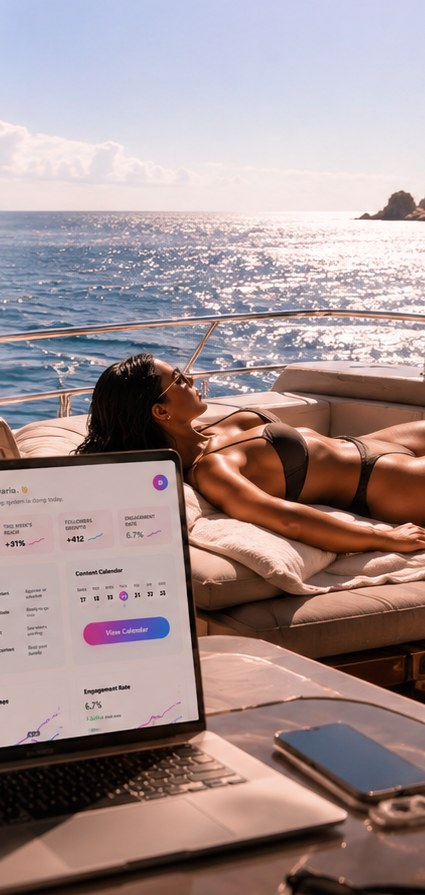
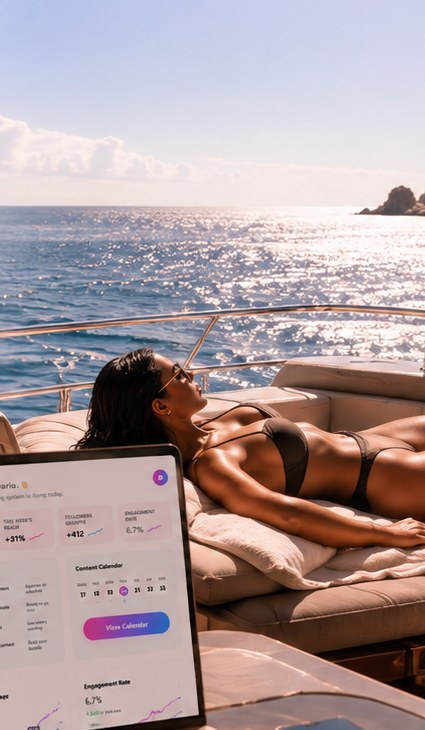
Rework hero into a cinematic lifestyle campaign, less dashboard/SaaS
Composition:
- Re-crop images/hero-freedom.jpg from the original source to show
  much more sky/ocean/space and de-emphasize the laptop (tucked into
  a lower corner instead of centered), keeping the woman as the clear
  focal point.
- Photo panel is now a wider (66%), unboxed full-bleed layer with no
  rounded-rectangle card framing or heavy drop shadow, bleeding to the
  section's top/right/bottom edges with a soft left mask so it reads
  as bleeding behind the headline column rather than sitting in a box.
- Increased hero height (clamp 680-900px via 88vh) for a more
  cinematic scale.

Business proof, dialed back:
- Removed the dark 'YOUR BUSINESS IS MOVING...' overlay box entirely.
- Cut the floating cards down in size (~30-40% smaller), spread them
  into natural corners instead of a stacked column, and hid the third
  (Automations) card on mobile, keeping just Content Scheduled and
  Engagement.
- Softened the ambient pink/blue/purple background glow (lower
  opacity, larger blur, added a third subtle purple pool) so it reads
  as ambient light rather than gradient blobs.

Headline: more breathing room (larger margins, calmer letter-spacing
and line-height) so it doesn't fight the photo.

Scope: only the hero section and hero-specific CSS/JS changed — nav
and everything from 'WHERE ARE YOU IN YOUR JOURNEY?' down are
untouched (verified via diff). Re-verified no horizontal overflow or
console errors across a 360-1920px width sweep, and reduced-motion
behavior.

diff --git a/css/style.css b/css/style.css
@@ -278,65 +278,65 @@ button { font: inherit; cursor: pointer; }
 .hero {
   position: relative;
   overflow: hidden;
-  min-height: 760px;
+  min-height: clamp(680px, 88vh, 900px);
   background:
-    radial-gradient(circle at 77% 18%, rgba(255, 46, 147, .13), transparent 28%),
-    radial-gradient(circle at 86% 62%, rgba(61, 139, 255, .12), transparent 30%),
-    linear-gradient(180deg, #fff8fb 0%, #ffffff 72%);
+    radial-gradient(circle at 80% 15%, rgba(255, 46, 147, .07), transparent 32%),
+    radial-gradient(circle at 88% 60%, rgba(61, 139, 255, .06), transparent 34%),
+    radial-gradient(circle at 20% 85%, rgba(139, 92, 246, .05), transparent 30%),
+    linear-gradient(180deg, #fffbfd 0%, #ffffff 70%);
   isolation: isolate;
 }
 
 .hero__ambient {
   position: absolute;
-  width: 520px;
-  height: 520px;
+  width: 560px;
+  height: 560px;
   border-radius: 50%;
-  filter: blur(90px);
-  opacity: .22;
+  filter: blur(120px);
+  opacity: .13;
   pointer-events: none;
   z-index: -1;
-  animation: heroAmbient 10s ease-in-out infinite alternate;
+  animation: heroAmbient 14s ease-in-out infinite alternate;
 }
-.hero__ambient--pink { background: var(--pink); top: -260px; right: 16%; }
-.hero__ambient--blue { background: var(--blue); right: -260px; bottom: -250px; animation-delay: -4s; }
+.hero__ambient--pink { background: var(--pink); top: -280px; right: 18%; }
+.hero__ambient--blue { background: var(--blue); right: -260px; bottom: -260px; animation-delay: -6s; }
 
 .hero__inner {
   position: relative;
-  display: grid;
-  grid-template-columns: minmax(360px, .9fr) minmax(560px, 1.25fr);
+  z-index: 1;
+  display: flex;
   align-items: center;
-  gap: 46px;
-  min-height: 760px;
-  padding: 56px 32px 66px;
+  min-height: inherit;
+  padding: 64px 0;
 }
-.hero__copy { position: relative; z-index: 5; max-width: 560px; }
+.hero__copy { position: relative; z-index: 5; max-width: 520px; }
 
 .hero__headline--freedom {
   display: flex;
   flex-direction: column;
   align-items: flex-start;
   font-family: Georgia, 'Times New Roman', serif;
-  font-size: clamp(64px, 7vw, 112px);
+  font-size: clamp(56px, 6.4vw, 98px);
   font-weight: 400;
-  line-height: .78;
-  letter-spacing: -5px;
-  margin: 26px 0 30px;
+  line-height: .86;
+  letter-spacing: -3px;
+  margin: 30px 0 36px;
   color: var(--black);
 }
 
 .hero-line {
   display: block;
   opacity: 0;
-  transform: translateY(44px);
-  animation: heroLineIn .85s cubic-bezier(.16, 1, .3, 1) forwards;
+  transform: translateY(36px);
+  animation: heroLineIn .9s cubic-bezier(.16, 1, .3, 1) forwards;
 }
 .hero-line--1 { animation-delay: .12s; }
-.hero-line--2 { font-weight: 700; animation-delay: .24s; line-height: .9; }
-.hero-line--3 { animation-delay: .36s; }
+.hero-line--2 { font-weight: 700; animation-delay: .26s; line-height: .95; }
+.hero-line--3 { animation-delay: .4s; }
 
-.hero__desc { max-width: 470px; font-size: 17px; line-height: 1.75; color: var(--gray-text); margin-bottom: 30px; }
+.hero__desc { max-width: 440px; font-size: 17px; line-height: 1.8; color: var(--gray-text); margin-bottom: 34px; }
 .hero__desc strong { color: var(--ink); font-weight: 800; }
-.hero__ctas { display: flex; gap: 14px; flex-wrap: wrap; margin-bottom: 30px; }
+.hero__ctas { display: flex; gap: 14px; flex-wrap: wrap; margin-bottom: 32px; }
 
 .hero-primary-cta { position: relative; overflow: hidden; }
 .hero-primary-cta::after {
@@ -362,59 +362,64 @@ button { font: inherit; cursor: pointer; }
 }
 .platform-icon svg { width: 16px; height: 16px; }
 
-/* ---- Hero visual photo ---- */
-.hero__visual--freedom { position: relative; min-height: 610px; z-index: 2; perspective: 1200px; }
+/* ---- Hero visual photo — cinematic full-bleed, no dashboard-card framing ---- */
+.hero__visual--freedom {
+  position: absolute;
+  top: 0; right: 0; bottom: 0;
+  width: 66%;
+  z-index: 0;
+  perspective: 1200px;
+}
 
 .hero-photo-frame {
   position: absolute;
-  inset: 16px 0 18px 20px;
-  border-radius: 36px;
+  inset: 0;
   overflow: hidden;
-  box-shadow: 0 34px 90px rgba(20,19,31,.18), 0 8px 30px rgba(139,92,246,.12);
-  background: #eee;
 }
 
 .hero__photo--freedom {
   width: 100%;
   height: 100%;
   object-fit: cover;
-  object-position: center center;
-  transform: scale(1.035);
-  transition: transform .45s ease-out;
+  object-position: center 32%;
+  transform: scale(1.02);
+  transition: transform .6s ease-out;
   will-change: transform;
+  -webkit-mask-image: linear-gradient(to right, transparent 0%, #000 20%);
+  mask-image: linear-gradient(to right, transparent 0%, #000 20%);
 }
 
 .hero-photo-shade {
   position: absolute;
   inset: 0;
-  background: linear-gradient(90deg, rgba(255,255,255,.22) 0%, transparent 24%), linear-gradient(180deg, transparent 54%, rgba(10,10,18,.12) 100%);
+  background: linear-gradient(180deg, transparent 62%, rgba(10,10,18,.14) 100%);
   pointer-events: none;
 }
 
 .freedom-status {
   position: absolute;
   display: grid;
-  grid-template-columns: 12px 1fr auto;
+  grid-template-columns: 8px 1fr auto;
   align-items: center;
-  gap: 11px;
-  min-width: 208px;
-  padding: 15px 16px;
-  border-radius: 18px;
-  background: rgba(255,255,255,.90);
-  border: 1px solid rgba(255,255,255,.72);
-  box-shadow: 0 14px 40px rgba(20,19,31,.16);
-  backdrop-filter: blur(16px);
-  -webkit-backdrop-filter: blur(16px);
+  gap: 8px;
+  max-width: 158px;
+  padding: 10px 12px;
+  border-radius: 13px;
+  background: rgba(255,255,255,.85);
+  border: 1px solid rgba(255,255,255,.7);
+  box-shadow: 0 10px 26px rgba(20,19,31,.13);
+  backdrop-filter: blur(14px);
+  -webkit-backdrop-filter: blur(14px);
   opacity: 0;
-  transform: translateY(20px) scale(.96);
-  animation: heroCardIn .72s cubic-bezier(.16,1,.3,1) forwards, heroCardFloat 5.5s ease-in-out infinite;
+  transform: translateY(16px) scale(.96);
+  animation: heroCardIn .72s cubic-bezier(.16,1,.3,1) forwards, heroCardFloat 6.5s ease-in-out infinite;
 }
 
 .freedom-status strong, .freedom-status small { display: block; }
-.freedom-status strong { font-size: 13px; color: var(--ink); margin-bottom: 3px; }
-.freedom-status small { font-size: 11px; color: var(--gray-text); line-height: 1.35; }
+.freedom-status strong { font-size: 11px; color: var(--ink); margin-bottom: 2px; }
+.freedom-status small { font-size: 9.5px; color: var(--gray-text); line-height: 1.3; }
 
-.freedom-status__dot { width: 9px; height: 9px; border-radius: 50%; box-shadow: 0 0 0 5px rgba(139,92,246,.08); }
+.freedom-status__dot { width: 7px; height: 7px; border-radius: 50%; box-shadow: 0 0 0 4px rgba(139,92,246,.08); }
 .freedom-status__dot--pink { background: var(--pink); }
 .freedom-status__dot--blue { background: var(--blue); }
 .freedom-status__dot--purple { background: var(--purple); }
@@ -422,50 +427,19 @@ button { font: inherit; cursor: pointer; }
 .freedom-status__check {
   display: grid;
   place-items: center;
-  width: 25px;
-  height: 25px;
+  width: 18px;
+  height: 18px;
   border-radius: 50%;
   color: #fff;
-  font-size: 13px;
+  font-size: 10px;
   font-weight: 900;
   background: var(--gradient-main);
 }
-.freedom-status__trend { font-size: 24px; line-height: 1; font-weight: 900; color: var(--green); }
+.freedom-status__trend { font-size: 17px; line-height: 1; font-weight: 900; color: var(--green); }
 
-.freedom-status--scheduled { top: 54px; right: -18px; animation-delay: .66s, 1.4s; }
-.freedom-status--growth { top: 212px; right: -20px; animation-delay: .82s, 1.9s; }
-.freedom-status--automation { right: 18px; bottom: 78px; animation-delay: .98s, 2.2s; }
-
-.freedom-proof {
-  position: absolute;
-  left: 52px;
-  bottom: 42px;
-  display: flex;
-  flex-direction: column;
-  gap: 3px;
-  max-width: 290px;
-  padding: 14px 17px;
-  border-radius: 16px;
-  color: #fff;
-  background: rgba(10,10,18,.58);
-  border: 1px solid rgba(255,255,255,.20);
-  backdrop-filter: blur(14px);
-  -webkit-backdrop-filter: blur(14px);
-  box-shadow: 0 12px 32px rgba(0,0,0,.18);
-}
-.freedom-proof span:not(.freedom-proof__pulse) { font-size: 10px; letter-spacing: 1.5px; font-weight: 800; }
-.freedom-proof strong { font-size: 13px; line-height: 1.35; }
-.freedom-proof__pulse {
-  position: absolute;
-  width: 8px;
-  height: 8px;
-  border-radius: 50%;
-  left: -3px;
-  top: -3px;
-  background: var(--green);
-  box-shadow: 0 0 0 0 rgba(34,197,94,.42);
-  animation: freedomPulse 2.1s infinite;
-}
+.freedom-status--scheduled { top: 12%; right: 6%; animation-delay: .66s, 1.4s; }
+.freedom-status--growth { top: 44%; left: 3%; animation-delay: .82s, 1.9s; }
+.freedom-status--automation { right: 7%; bottom: 14%; animation-delay: .98s, 2.2s; }
 
 .hero-animate { opacity: 0; transform: translateY(18px); animation: heroSoftIn .65s cubic-bezier(.16,1,.3,1) forwards; }
 .hero-animate--1 { animation-delay: .05s; }
@@ -476,13 +450,8 @@ button { font: inherit; cursor: pointer; }
 @keyframes heroLineIn { to { opacity: 1; transform: translateY(0); } }
 @keyframes heroSoftIn { to { opacity: 1; transform: translateY(0); } }
 @keyframes heroCardIn { to { opacity: 1; transform: translateY(0) scale(1); } }
-@keyframes heroCardFloat { 0%,100% { margin-top: 0; } 50% { margin-top: -7px; } }
-@keyframes heroAmbient { from { transform: translate3d(0,0,0) scale(1); } to { transform: translate3d(24px,16px,0) scale(1.08); } }
-@keyframes freedomPulse {
-  0% { box-shadow: 0 0 0 0 rgba(34,197,94,.42); }
-  70% { box-shadow: 0 0 0 11px rgba(34,197,94,0); }
-  100% { box-shadow: 0 0 0 0 rgba(34,197,94,0); }
-}
+@keyframes heroCardFloat { 0%,100% { margin-top: 0; } 50% { margin-top: -6px; } }
+@keyframes heroAmbient { from { transform: translate3d(0,0,0) scale(1); } to { transform: translate3d(20px,14px,0) scale(1.06); } }
 
 .btn--ghost-demo { padding: 10px 22px 10px 14px; gap: 12px; }
 .play-icon {
@@ -498,7 +467,7 @@ button { font: inherit; cursor: pointer; }
 .btn__text small { font-weight: 600; color: var(--gray-text); font-size: 11px; }
 
 @media (prefers-reduced-motion: reduce) {
-  .hero-line, .hero-animate, .freedom-status, .hero__ambient, .freedom-proof__pulse {
+  .hero-line, .hero-animate, .freedom-status, .hero__ambient {
     animation: none !important;
     opacity: 1 !important;
     transform: none !important;
@@ -968,38 +937,36 @@ button { font: inherit; cursor: pointer; }
 }
 
 /* ---- Freedom hero responsive ----
-   Stacks above the nav's 900px breakpoint (1120px) because the
-   two-column grid's minmax floors (360px + 560px + 46px gap) need
-   ~1030px of content width before the floating cards start clipping
-   against .hero's overflow:hidden. */
+   Stacks above the nav's 900px breakpoint (1120px) so the absolutely
+   positioned photo panel and its floating cards never get cramped
+   against the copy column before switching to the stacked layout. */
 @media (max-width: 1120px) {
   .hero { min-height: auto; }
-  .hero__inner { display: flex; flex-direction: column; align-items: stretch; padding: 48px 24px 52px; gap: 34px; }
+  .hero__inner { display: flex; flex-direction: column; align-items: stretch; padding: 48px 24px 0; gap: 0; }
   .hero__copy { max-width: 680px; }
-  .hero__headline--freedom { font-size: clamp(62px, 15vw, 96px); letter-spacing: -4px; margin-bottom: 24px; }
-  .hero__visual--freedom { min-height: 540px; }
-  .hero-photo-frame { inset: 0; border-radius: 26px; }
-  .freedom-status--scheduled { top: 28px; right: 18px; }
-  .freedom-status--growth { top: 144px; right: 8px; }
-  .freedom-status--automation { right: 18px; bottom: 34px; }
-  .freedom-proof { left: 20px; bottom: 26px; }
+  .hero__headline--freedom { font-size: clamp(58px, 14vw, 92px); letter-spacing: -3px; }
+  .hero__visual--freedom {
+    position: relative;
+    top: auto; right: auto; bottom: auto;
+    width: auto;
+    margin: 36px -24px 0;
+    height: 60vh;
+    min-height: 440px;
+    max-height: 620px;
+  }
+  .hero__photo--freedom { -webkit-mask-image: none; mask-image: none; object-position: center 24%; }
 }
 
 @media (max-width: 620px) {
-  .hero__inner { padding: 38px 18px 42px; }
-  .hero__headline--freedom { font-size: clamp(54px, 17vw, 78px); letter-spacing: -3px; }
+  .hero__inner { padding: 38px 18px 0; }
+  .hero__headline--freedom { font-size: clamp(50px, 16vw, 74px); letter-spacing: -2px; }
   .hero__desc { font-size: 15px; }
   .hero__ctas { flex-direction: column; align-items: stretch; }
   .hero__ctas .btn { width: 100%; }
-  .hero__visual--freedom { min-height: 430px; }
+  .hero__visual--freedom { margin: 30px -18px 0; height: 52vh; min-height: 380px; }
   .hero__photo--freedom { transform: none !important; }
-  .freedom-status { width: 172px; min-width: 0; padding: 11px 12px; gap: 8px; border-radius: 14px; }
-  .freedom-status strong { font-size: 11px; }
-  .freedom-status small { font-size: 9.5px; }
-  .freedom-status--scheduled { top: 18px; right: 10px; }
-  .freedom-status--growth { top: 104px; right: 6px; }
-  .freedom-status--automation { right: 10px; bottom: 18px; }
-  .freedom-proof { left: 12px; bottom: 14px; max-width: 185px; padding: 10px 12px; }
-  .freedom-proof span:not(.freedom-proof__pulse) { font-size: 8px; }
-  .freedom-proof strong { font-size: 10px; }
+  .freedom-status { max-width: 132px; padding: 8px 10px; gap: 6px; border-radius: 11px; }
+  .freedom-status strong { font-size: 9.5px; }
+  .freedom-status small { font-size: 8.5px; }
+  .freedom-status--tertiary { display: none; }
 }

diff --git a/index.html b/index.html
@@ -126,16 +126,10 @@
         <span class="freedom-status__trend" aria-hidden="true">&#8599;</span>
       </div>
 
-      <div class="freedom-status freedom-status--automation hero-float-card" data-depth="9">
+      <div class="freedom-status freedom-status--automation hero-float-card freedom-status--tertiary" data-depth="9">
         <span class="freedom-status__dot freedom-status__dot--purple" aria-hidden="true"></span>
         <span><strong>Automations Running</strong><small>No action needed</small></span>
         <span class="freedom-status__check" aria-hidden="true">&#10003;</span>
-      </div>
-
-      <div class="freedom-proof hero-animate hero-animate--7">
-        <span class="freedom-proof__pulse" aria-hidden="true"></span>
-        <span>YOUR BUSINESS IS MOVING.</span>
-        <strong>YOU DON'T HAVE TO MISS YOUR LIFE.</strong>
       </div>
     </div>
   </div>

diff --git a/js/script.js b/js/script.js
@@ -78,7 +78,7 @@ document.addEventListener('DOMContentLoaded', () => {
   if (freedomHero && !reduceMotion) {
     window.setTimeout(animateHeroCounters, 950);
 
-    if (window.matchMedia('(min-width: 901px)').matches && freedomVisual) {
+    if (window.matchMedia('(min-width: 1121px)').matches && freedomVisual) {
       freedomVisual.addEventListener('pointermove', (event) => {
         const rect = freedomVisual.getBoundingClientRect();
         const x = (event.clientX - rect.left) / rect.width - 0.5;
